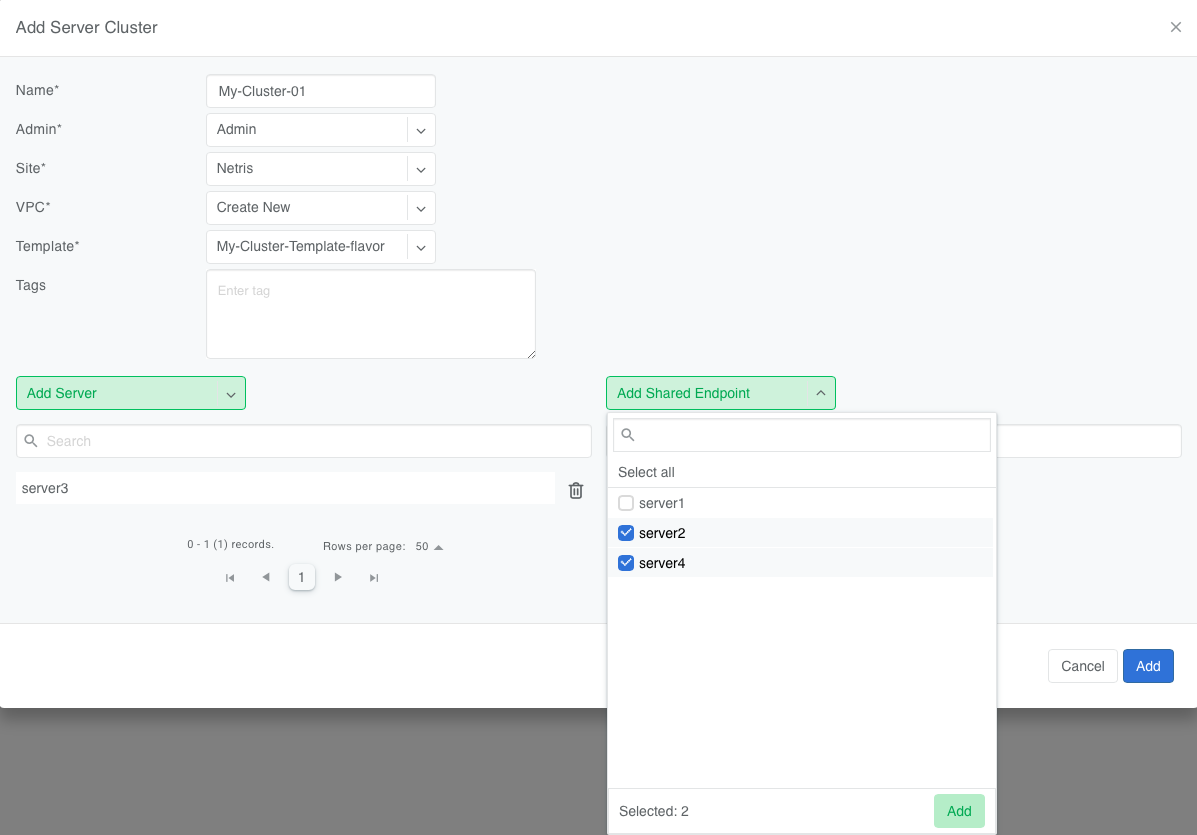
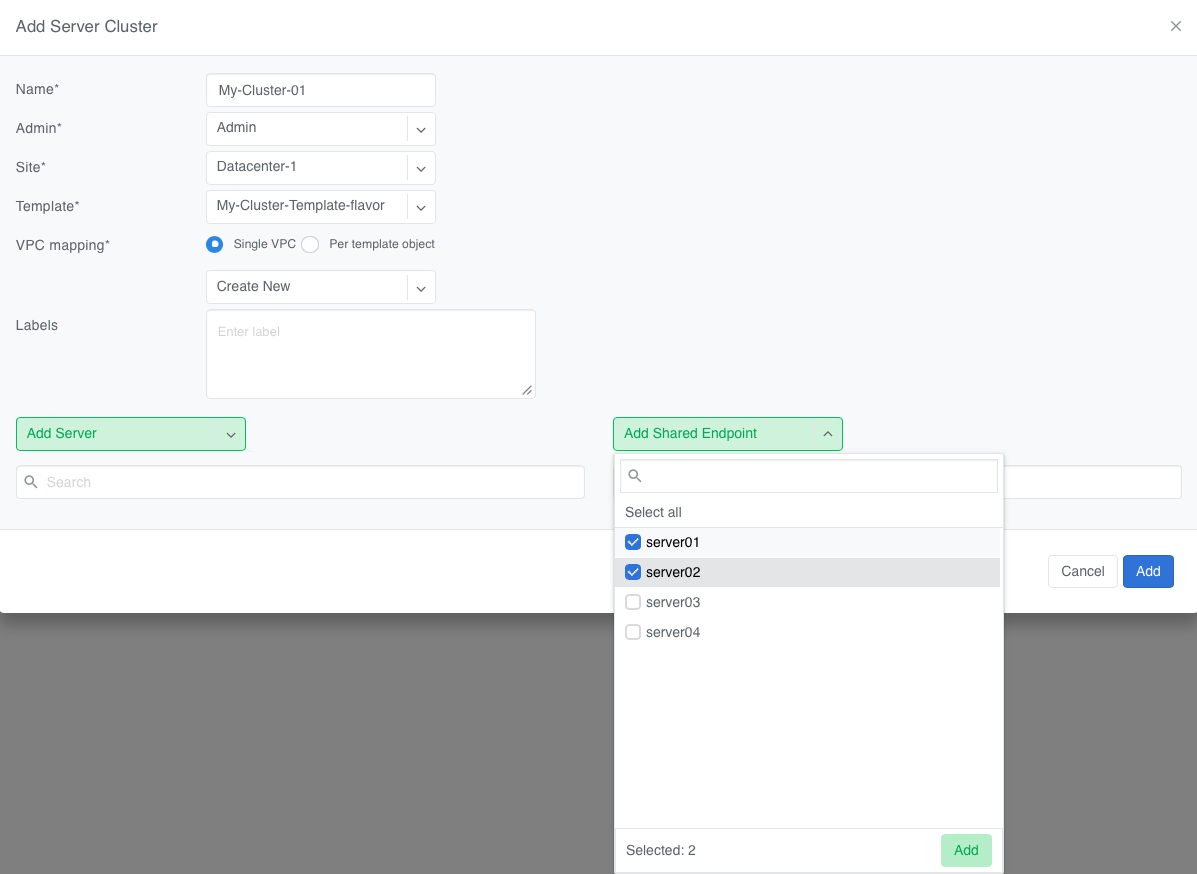
Add BGP intro, srv clstr update, plat and feat update

diff --git a/server-cluster.rst b/server-cluster.rst
@@ -27,7 +27,7 @@ In a Server Cluster Template you define:
 
 - What V-Nets to create and their types (VXLAN, VLAN, UFM, NVLink, and others)
 - What subnets to assign to each these V-Nets, when applicable
-- Which server NICs map to these V-Nets
+- Which server NICs map to these V-Nets (for Ethernet-based V-Nets only)
 - Other applicable settings specific to Ethernet, InfiniBand, and NVLink fabrics
 
 You can find more information about these primitives in the :doc:`V-Net </vnet>` and :doc:`IP Address Management </ipam>` Netris documentation.
@@ -138,6 +138,9 @@ This example is common for AI fabrics where the frontend is based on Ethernet an
       "ipv4DhcpEnabled": true
     }
   ]
+
+.. tip::
+   If your deployment includes more than one InfiniBand fabric (e.g., East-West GPU-to-GPU fabric and a dedicated InifiBand-based storage fabric) you can include multiple stanzas with "type":"netris-ufm". See :doc:`Netris UFM documentation </netris-ufm-integration>` for more details.
 
 You can find more details about NVIDIA UFM (InfiniBand) integration in :doc:`Netris UFM documentation </netris-ufm-integration>`.
 
@@ -264,24 +267,14 @@ Each object in the **Vnets** JSON array may include a combination of the followi
 
     - A string specifying the IPv4 gateway for V-Net in CIDR notation
     - A string `specify` to force the operator to enter the gateway explicitly at cluster creation
-    - an object (see :ref:`advanced-uses`) with the following properties:
-
-      - **assignType**: A string indicating the type of assignment. Only `auto` is permitted at this time.
-      - **allocation**: A string specifying the IPv4 address allocation, a supernet from which the child subnets will be derived.
-      - **childSubnetPrefixLength**: An integer specifying the prefix length for child subnets.
-      - **hostnum**: An integer specifying the host number for the gateway.
+    - an object (see :ref:`advanced-uses`) with the following properties: **assignType** (only `auto` is permitted at this time), **allocation** (the IPv4 address allocation, a supernet from which the child subnets will be derived), **childSubnetPrefixLength** (the prefix length for child subnets), and **hostnum** (the host number for the gateway).
 
   - **ipv4DhcpEnabled**: A boolean to enable/disable DHCP for IPv4.
   - **ipv6Gateway**: When `type:l2vpn` one of the following values:
 
     - A string specifying the IPv6 gateway for V-Net in CIDR notation
     - A string `specify` to force the operator to enter the gateway explicitly at cluster creation
-    - an object (see :ref:`advanced-uses`) with the following properties:
-
-      - **assignType**: A string indicating the type of assignment. Only `auto` is permitted at this time.
-      - **allocation**: A string specifying the IPv6 address allocation, a supernet from which the child subnets will be derived.
-      - **childSubnetPrefixLength**: An integer specifying the prefix length for child subnets.
-      - **hostnum**: An integer specifying the host number for the gateway.
+    - an object (see :ref:`advanced-uses`) with the same **assignType**, **allocation**, **childSubnetPrefixLength**, and **hostnum** properties as above (IPv6-scoped).
 
   - **Ufm**: Nvidia UFM controller identifier (`ufm_id`) for V-Net `type:netris-ufm`. See :doc:`Netris UFM documentation </netris-ufm-integration>` for details.
   - **Pkey**: Pkey settings when V-Net `type:netris-ufm`. Only `auto` is permitted at this time.
@@ -497,7 +490,11 @@ When you click the blue ``Add`` button, Netris will create the VPC, V-Nets, and 
   - After creation, the template, the VPC, and the site fields are locked.
   - The same Netris NIC name must be used consistently across all server objects in a cluster. For example, when eth10 is assigned to a V-Net in the template, Netris will assign every switch port that corresponds to every server's eth10 to the same  V-Net throughout the server cluster.
 
-You can also assign one or more V-Nets to a separate VPC while assigning others to another VPC. To do so, select **Per template object** under the VPC mapping option. Doing so shows a drop down menu to select an existing VPC or create a new VPC for each V-Net specified in the template.
+In some architectures you may want to assign some V-Nets to one VPC, while assigning others to another VPC when creating a Server Cluster. A typical use case might be assigning East-West and North-South scoped V-Nets to a new dedicated VPC, while assigning the management V-Net to an existing management VPC. Alternatively, you can use Labels to achieve a similar outcome as described :doc:`here <labels>`.
+
+To assign the templated V-Nets to different VPCs at the time of Server Cluster creation, select ``Per template object`` under the VPC mapping option and select an existing VPC or create a new VPC for each V-Net specified in the template.
+
+To assign multiple V-Nets to the same VPC, select them together as shown on the screenshot below.
 
 .. image:: images/server-cluster-add-per-vnet-vpc.png
   :align: center
@@ -509,9 +506,7 @@ You can also assign one or more V-Nets to a separate VPC while assigning others 
 
 .. note::
 
-  - V-Nets selected together on one line will be placed into the same VPC.
-  - In the screenshot above the Mgmt V-Net will be added to the existing VPC-102 (Shared-infra), while one new VPC will be created with the EastWest and the NorthSouth V-Nets assigned to it.
-  - If you require a separate VPC per V-Net, add a dedicated line for each V-Net.
+  In the screenshot above the Mgmt V-Net will be added to the existing VPC-102 (Shared-infra), while one new VPC will be created with the EastWest and the NorthSouth V-Nets assigned to it.
 
 .. _server-cluster-shared-endpoints:
 
@@ -530,7 +525,7 @@ To support this, Netris allows administrators to designate specific endpoints as
 
 .. raw:: html
 
-  <br />
+   <p style="text-align: center;"><em>Figure. Selecting servers as shared endpoints</em></p>
 
 .. image:: images/add-server-cluster-shared.png
   :align: center
@@ -538,11 +533,11 @@ To support this, Netris allows administrators to designate specific endpoints as
 
 .. raw:: html
 
-  <br />
+   <p style="text-align: center;"><em>Figure. Server01 and server02 are added to th My-Cluster-01 server cluster as shared endpoints</em></p>
 
 Designating an endpoint as shared changes how the associated switch port is provisioned. Netris automatically configures the switch port in tagged mode, or the functional equivalent in environments such as InfiniBand or NVLink.
 
-In essence: Shared endpoint = Tagged switch port
+In essence: Shared endpoint = Tagged switch port.
 
 This is the primary behavioral change triggered by marking an endpoint as shared.
 

diff --git a/supported-switch-hardware.rst b/supported-switch-hardware.rst
@@ -5,7 +5,7 @@ Hardware Requirements
 Netris Controller
 =================
 
-We recommend three (for HA) Ubuntu 24.04 servers with the below specs. HA Netris Controller can run both in air-gapped or Internet accessible environments.
+The Netris Controller requires at least three (for HA) Ubuntu 24.04 bare-metal servers with the specs below. HA Netris Controller can run in both air-gapped and Internet-accessible environments.
 
 .. list-table::
    :header-rows: 0
@@ -15,12 +15,7 @@ We recommend three (for HA) Ubuntu 24.04 servers with the below specs. HA Netris
      - **RAM**
      - **SSD/NVME**
      - **Network**
-   * - Leaf/Spine 1-30 switches
-     - 8
-     - 32 GB
-     - 1 TB
-     - 4x 25GbE+ NIC
-   * - Leaf/Spine 30-100 switches
+   * - Leaf/Spine 1-100 switches
      - 8
      - 32 GB
      - 1 TB
@@ -250,15 +245,19 @@ Dell
      - Broadcom Tomahawk IV
      - 64x QSFP-DD 400GbE
      - Dell-SONiC
-     -
+     - Spine only [#dell-fn1]_
      - ✔
    * - Dell
      - PowerSwitch Z Series Z9864F-ON
      - Tomahawk 5
      - 64x OSFP800
      - Dell-SONiC
-     -
+     - Routing VTEP only [#dell-fn2]_
      - ✔
+
+.. [#dell-fn1] This platform's Broadcom Tomahawk IV ASIC does not support VXLAN tunnel termination under either NOS Dell currently offers for it (Dell Enterprise SONiC or SmartFabric OS10). It cannot function as a VTEP and is only suitable for a spine (underlay-only) role. This is a hardware/NOS limitation. See Dell's `Enterprise SONiC Distribution Compatibility Matrix <https://www.delltechnologies.com/asset/en-us/products/networking/technical-support/enterprise-sonic-features-and-supported-platforms-matrix.pdf>`_.
+
+.. [#dell-fn2] This platform supports Layer-3 VXLAN routing but not Layer-2 VXLAN bridging or EVPN in Dell Enterprise SONiC. It can serve as a routed-overlay VTEP for Layer-3-only designs. Contact Netris support to confirm fit if your design requires VXLAN bridging or EVPN multihoming. This is a platform/NOS limitation. See Dell's `Enterprise SONiC Distribution Compatibility Matrix <https://www.delltechnologies.com/asset/en-us/products/networking/technical-support/enterprise-sonic-features-and-supported-platforms-matrix.pdf>`_.
 
 EdgeCore
 ========
@@ -305,7 +304,7 @@ EdgeCore
      - Broadcom Tomahawk 3
      - 32 x 400G QSFP-DD
      - EC-SONiC
-     -
+     - Contact Netris support [#edgecore-fn1]_
      - ✔
    * - EdgeCore
      - DCS511 (AS9737-32DB)
@@ -321,6 +320,8 @@ EdgeCore
      - EC-SONiC
      -
      - ✔
+
+.. [#edgecore-fn1] VXLAN/VTEP support for this platform is not clearly confirmed in EdgeCore's published platform documentation. Contact Netris support before deploying this switch in a leaf/VTEP role. See EdgeCore's `DCS510 (AS9716-32D) datasheet <https://www.edge-core.com/wp-content/uploads/2026/07/2026-042-DCS510_AS9716-32D-DS-R11-20260709.pdf>`_.
 
 Arista
 ========
@@ -374,14 +375,14 @@ Arista
      - Tomahawk 5
      - 32 x 800G OSFP
      - EOS
-     -
+     - Bridging VTEP only [#arista-fn1]_
      - ✔
    * - Arista
      - 7060X6-64PE
      - Tomahawk 5
      - 64 x 800G OSFP + 2 x SFP+
      - EOS
-     -
+     - Bridging VTEP only [#arista-fn1]_
      - ✔
    * - Arista
      - 7280R3
@@ -423,7 +424,7 @@ Arista
      - Tomahawk 3
      - 128 x 100G or 32 x 400G
      - EOS
-     -
+     - Contact Netris support [#arista-fn2]_
      - ✔
    * - Arista
      - 7500R3
@@ -439,3 +440,7 @@ Arista
      - EOS
      -
      - ✔
+
+.. [#arista-fn1] Current Arista EOS releases on this platform support VXLAN bridging but not VXLAN routing, per Arista's published datasheet. It can serve as a bridging-only VTEP. Contact Netris support if your design requires EVPN/VXLAN routing. This is a platform/NOS limitation. See Arista's `7060X6 Series datasheet <https://www.arista.com/assets/data/pdf/Datasheets/7060X6-Datasheet.pdf>`_.
+
+.. [#arista-fn2] VXLAN/VTEP support for this platform is not clearly confirmed in Arista's published documentation. Contact Netris support before deploying this switch in a leaf/VTEP role. See Arista's `7368X4 datasheet <https://www.arista.com/assets/data/pdf/Datasheets/7368X4-Datasheet.pdf>`_.

diff --git a/supported-platform-matrix.rst b/supported-platform-matrix.rst
@@ -82,7 +82,7 @@ Switch Fabric Management Functions
       - ✔
       - ✔
    *  - AI switch fabric
-      - Optimizations for AI workloads. See AI functions section below.
+      - Optimizations for AI workloads. See AI Specific Functions section below.
       - ✔
       - TBD
       - ✔
@@ -95,16 +95,16 @@ Switch Fabric Management Functions
       - TBD
    *  - Upgrade/Downgrade
       - Upgrade & Downgrade of Netris agent through the controller
+      - ✔
+      - Coming Soon
       - Coming Soon
       - TBD
-      - TBD
-      - Coming Soon
    *  - Custom Config Snippets
       - Custom configuration snippets for unique use cases.
+      - ✔
       - Coming Soon
       - Coming Soon
-      - Coming Soon
-      - Coming Soon   
+      - TBD  
    *  - :ref:`SNMPv2 polling <snmp_settings>`
       - Enable SNMPv2 server.
       - ✔
@@ -135,7 +135,7 @@ Host Networking
       - ✔
       - ✔
    *  - :doc:`Compute VXLAN/EVPN extension (EOH) </evpn-on-host>`
-      - Extend VXLAN/EVPN fabric into compute layer. See Compute integrations section below.
+      - Extend VXLAN/EVPN fabric into compute layer. See Compute Platform Integrations section below.
       - ✔
       - ✔
       - TBD
@@ -149,7 +149,7 @@ Monitoring & Telemetry
    *  - Function
       - Description
       - NVIDIA Cumulus
-      - Dell SONiC
+      - Dell-SONiC
 
         BCM-SONiC
       - Arista EOS
@@ -214,7 +214,7 @@ External Routing Functions
       - Arista EOS
       - EdgeCore-SONiC
    *  - External BGP (SoftGate)
-      - Terminate full routing table on SoftGate  Gateway-server.
+      - Terminate full routing table on SoftGate Gateway-server.
       - ✔
       - ✔
       - ✔
@@ -527,7 +527,7 @@ Management Interfaces
 Netris and NOS versions compatibility matrix
 ============================================
 
-.. note:: SoftGate PRO has been discontinued and superceded by SoftGate HS. The SoftGate PRO column is retained for reference by existing deployments on older Netris versions.
+.. note:: SoftGate PRO has been discontinued and superseded by SoftGate HS. The SoftGate PRO column is retained for reference by existing deployments on earlier Netris versions.
 
 .. list-table::
    :header-rows: 0

diff --git a/netris-ufm-integration.rst b/netris-ufm-integration.rst
@@ -153,7 +153,7 @@ Netris Controller Configuration
      - netris
    * - NETRIS_CONTROLLER_PASSWORD
      - Password for authenticating with Netris Controller
-     - newNet0ps
+     - Password!
    * - NETRIS_VERIFY_SSL
      - Whether to verify SSL certificates when connecting to Netris Controller
      - true or false
@@ -184,7 +184,7 @@ NVIDIA UFM Configuration
      - Whether to verify SSL certificates when connecting to UFM
      - true or false
    * - UFM_ID
-     - Unique identifier for this UFM instance
+     - Unique identifier for this UFM instance. This will be referenced from the :doc:`Server Cluster Template </server-cluster>`
      - ufm-lab
    * - UFM_PKEY_RANGE
      - Range of PKey IDs that can be allocated to clusters, in hexadecimal format
@@ -259,7 +259,7 @@ Next, create a Server Cluster Template.
 .. note::
    Netris Controller has no visibility into individual UFM NICs or ports, so the InfiniBand side of the template is just a single generic ``netris-ufm`` fabric entry — you don't (and can't) enumerate individual HCAs the way you would for Ethernet interfaces. Per-host HCA/port mapping happens automatically via the GUID sync described above.
 
-4. Create Server Clusters
+3. Create Server Clusters
 --------------------------
 
 After setting up the template, create server clusters as described in :ref:`creating-server-cluster`.
@@ -605,4 +605,4 @@ Additional Resources
 =====================
 
 - `NVIDIA UFM Documentation <https://docs.nvidia.com/networking/display/ufmenterpriseumv6200/>`_
-- `Netris NVIDIA Spectrum-X Scenario <https://www.netris.io/docs/en/latest/try-learn/nvidia-spectrum-x-scenario.html>`_
+- :doc:`Netris NVIDIA Spectrum-X Scenario </try-learn/nvidia-spectrum-x-scenario>`

diff --git a/bgp.rst b/bgp.rst
@@ -11,6 +11,18 @@ BGP
    :local:
    :depth: 4
 
+BGP Overview
+------------
+
+Netris uses BGP to connect tenant VPCs and management networks to the world outside the Netris-managed fabric — upstream carriers, non-Netris-managed data center networks, WAN routers, and security appliances such as firewalls.
+
+There are two main types of BGP-enabled connectivity:
+
+- **SoftGate-terminated BGP** — the session terminates on a :doc:`SoftGate <netris-softgate-HS>` node. Typically used for connecting to ISPs, border routers, and similar upstream peers, since SoftGate also provides :doc:`NAT <nat>` and :doc:`Layer-4 load balancing <l4-load-balancer>` for that traffic.
+- **:doc:`VPC Connect <vpc-connect>` (switch-terminated BGP)** — the session terminates directly on a switch port or V-Net SVI. Typically used to establish line-rate connections to external gateways that don't require NAT or L4LB as part of the connection.
+
+Typical use cases are connecting the Netris-managed fabric to external networks such as WAN, non-Netris-managed parts of the data center network, Internet Service Providers, and similar external networks.
+
 Basic BGP
 ---------
 
